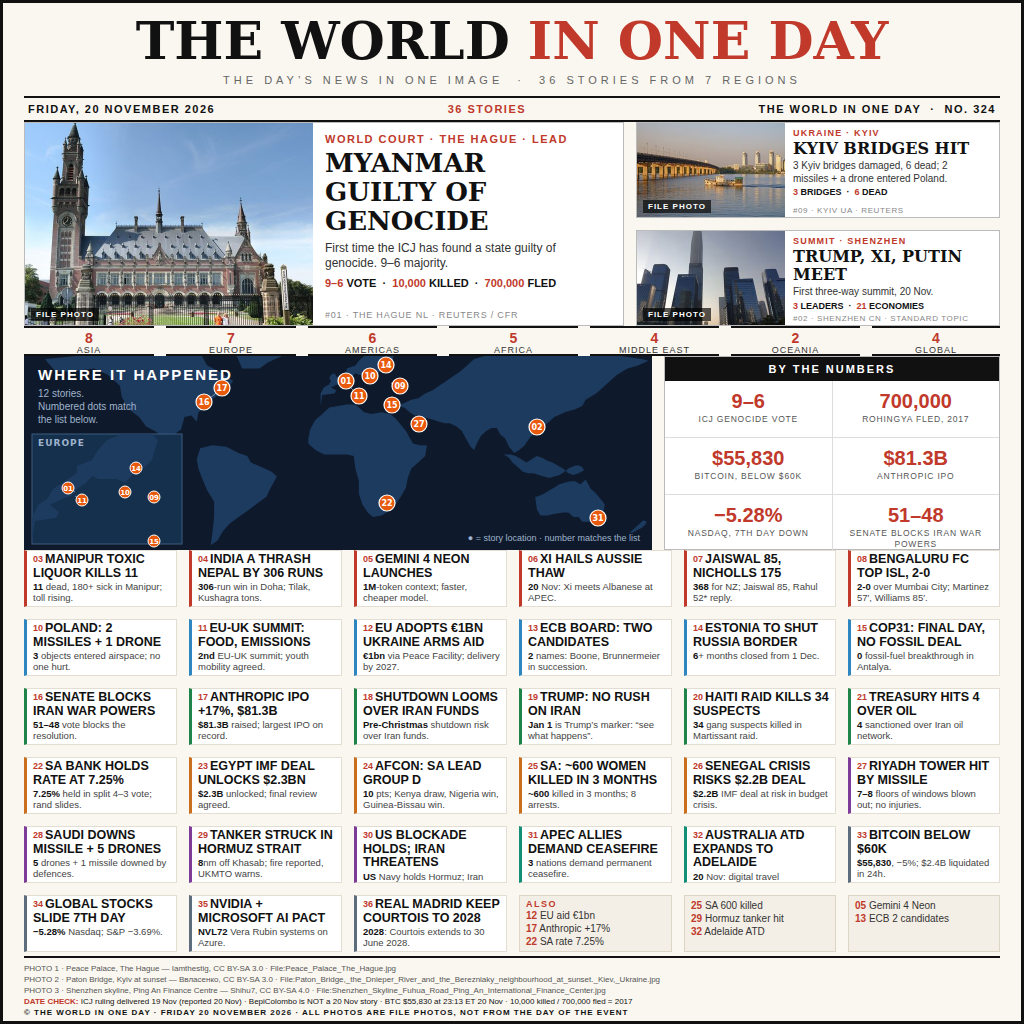
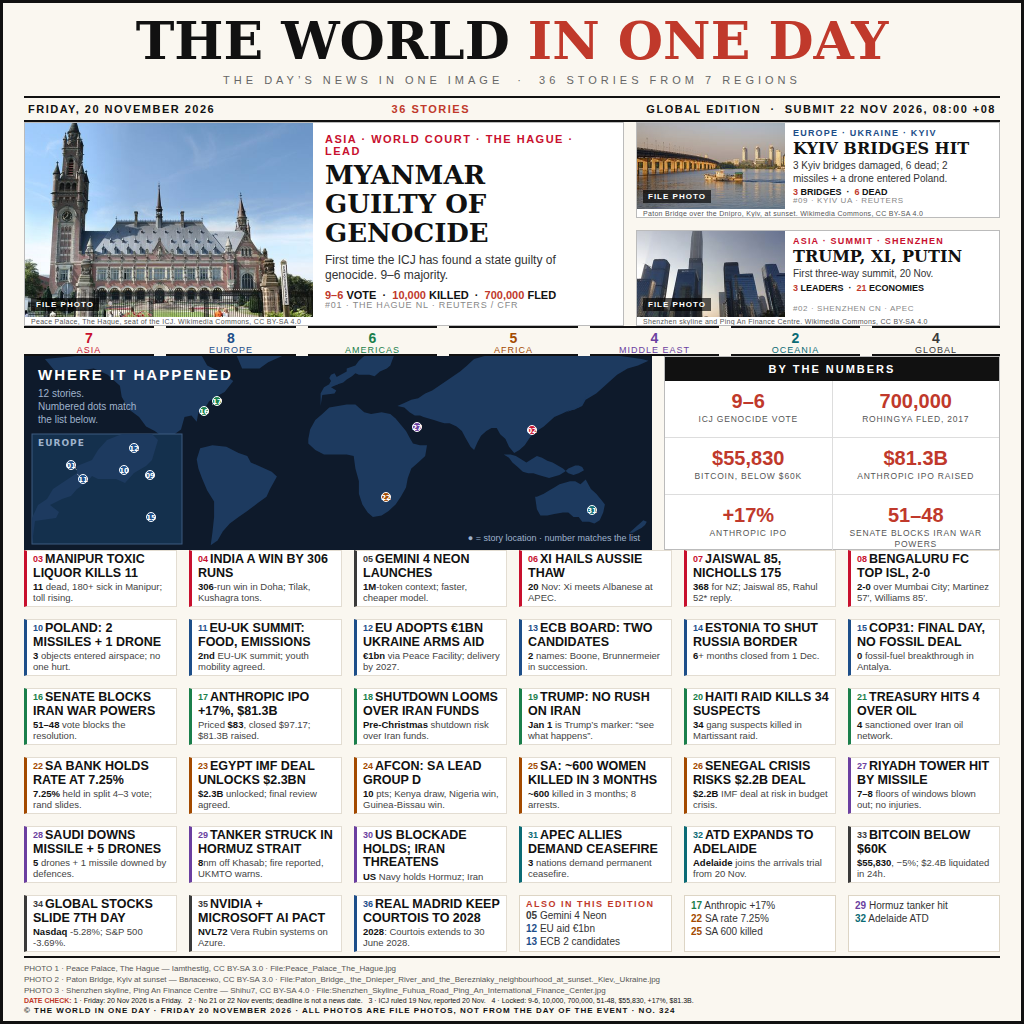
v2 fix: Superbot 15-item synthesis — region colours, hero captions, redrawn pins, numbers bar, ALSO, DATE CHECK
- Region colour system: per-region card borders + numbers, region strip
- Heroes: caption rows (photo 194/86 + 10px caption), region kickers, Hero 3 src APEC
- Map: 12 pins redrawn (6 main + 6 Europe inset), pin 14 dropped for pin 12
- Numbers bar: +17% Anthropic IPO replaces -5.28% Nasdaq; $81.3B label disambiguated
- Cards: 04/17/32/34 text fixes; card 32 title shortened to fit 2 lines
- Hero 3 title shortened to TRUMP, XI, PUTIN (was 2 lines, src overlapped nums)
- ALSO: header + reordered, region-coloured numbers; DATE CHECK 4-item, BepiColombo out
- NO. 324 moved to footer copyright

diff --git a/build/front.html b/build/front.html
@@ -18,10 +18,12 @@
   .datestrip .r { color:#c0392b; }
   /* heroes 122-326 */
   .heroes { position:absolute; left:24px; top:122px; width:976px; height:204px; display:flex; gap:12px; }
-  .hero1 { width:600px; height:204px; border:1px solid #bbb; background:#fff; display:flex; overflow:hidden; }
-  .hero1 .pic { width:288px; height:204px; flex-shrink:0; position:relative; overflow:hidden; }
-  .hero1 .pic img { width:288px; height:204px; object-fit:cover; display:block; }
-  .hero1 .txt { width:300px; height:204px; padding:10px 12px 0 12px; position:relative; }
+  .hero1 { width:600px; height:204px; border:1px solid #bbb; background:#fff; display:flex; flex-direction:column; overflow:hidden; }
+  .hero1 .hrow{display:flex;height:194px}
+  .hero1 .cap{height:10px;font-size:7px;line-height:10px;color:#555;padding:0 6px;white-space:nowrap;overflow:hidden;letter-spacing:0.3px}
+  .hero1 .pic { width:288px; height:194px; flex-shrink:0; position:relative; overflow:hidden; }
+  .hero1 .pic img { width:288px; height:194px; object-fit:cover; display:block; }
+  .hero1 .txt { width:300px; height:194px; padding:10px 12px 0 12px; position:relative; }
   .hero1 .kick { font-size:11px; font-weight:700; letter-spacing:1.5px; color:#c0392b; }
   .hero1 h2 { font-family:"DejaVu Serif",serif; font-size:26px; font-weight:700; line-height:29px; margin-top:4px; }
   .hero1 .deck { font-size:12px; line-height:15px; color:#333; margin-top:5px; }
@@ -30,10 +32,12 @@
   .hero1 .src { position:absolute; left:12px; bottom:7px; font-size:9px; letter-spacing:0.8px; color:#888; }
   .filetag { position:absolute; left:6px; bottom:6px; background:rgba(0,0,0,0.65); color:#fff; font-size:8px; font-weight:700; letter-spacing:1px; padding:2px 5px; z-index:2; }
   .hero23 { width:364px; height:204px; display:flex; flex-direction:column; gap:12px; }
-  .hero-side { width:364px; height:96px; border:1px solid #bbb; background:#fff; display:flex; overflow:hidden; }
-  .hero-side .pic { width:148px; height:96px; flex-shrink:0; position:relative; overflow:hidden; }
-  .hero-side .pic img { width:148px; height:96px; object-fit:cover; display:block; }
-  .hero-side .txt { width:204px; height:96px; padding:5px 8px 0 8px; position:relative; }
+  .hero-side { width:364px; height:96px; border:1px solid #bbb; background:#fff; display:flex; flex-direction:column; overflow:hidden; }
+  .hero-side .hrow{display:flex;height:86px}
+  .hero-side .cap{height:10px;font-size:7px;line-height:10px;color:#555;padding:0 6px;white-space:nowrap;overflow:hidden;letter-spacing:0.3px}
+  .hero-side .pic { width:148px; height:86px; flex-shrink:0; position:relative; overflow:hidden; }
+  .hero-side .pic img { width:148px; height:86px; object-fit:cover; display:block; }
+  .hero-side .txt { width:204px; height:86px; padding:5px 8px 0 8px; position:relative; }
   .hero-side .kick { font-size:9px; font-weight:700; letter-spacing:1.2px; color:#c0392b; }
   .hero-side h2 { font-family:"DejaVu Serif",serif; font-size:16px; font-weight:700; line-height:18px; margin-top:2px; }
   .hero-side .deck { font-size:10px; line-height:12.5px; color:#333; margin-top:2px; }
@@ -45,6 +49,13 @@
   .regions .cell { height:30px; border-top:2px solid #111; border-bottom:2px solid #111; text-align:center; padding-top:3px; }
   .regions .cell .n { font-size:14px; font-weight:700; color:#c0392b; line-height:14px; }
   .regions .cell .r { font-size:9px; letter-spacing:1px; color:#333; line-height:10px; }
+  .regions .cell.ra .n,.regions .cell.ra .r{color:#C8102E}
+  .regions .cell.re .n,.regions .cell.re .r{color:#1D4E89}
+  .regions .cell.rm .n,.regions .cell.rm .r{color:#1B7F4B}
+  .regions .cell.rf .n,.regions .cell.rf .r{color:#A34A00}
+  .regions .cell.rme .n,.regions .cell.rme .r{color:#6B3FA0}
+  .regions .cell.ro .n,.regions .cell.ro .r{color:#0B6B75}
+  .regions .cell.rg .n,.regions .cell.rg .r{color:#3A3A3A}
   /* mapband 356-550 */
   .mapband { position:absolute; left:24px; top:356px; width:976px; height:194px; display:flex; gap:12px; }
   .map { width:628px; height:194px; background:#0e1a2b; position:relative; overflow:hidden; }
@@ -65,16 +76,23 @@
   .grid { position:absolute; left:24px; top:550px; width:976px; height:406px; display:grid; grid-template-columns:153px 153px 153px 153px 152px 152px; grid-template-rows:repeat(6,57px); gap:12px; }
   .card { border-left:3px solid #999; background:#fff; border-top:1px solid #e3ddd2; border-right:1px solid #e3ddd2; border-bottom:1px solid #e3ddd2; padding:2px 6px; overflow:hidden; }
   .card .l1 { font-size:12.5px; font-weight:700; line-height:13.5px; }
-  .card .l1 .num { color:#c0392b; font-size:9px; vertical-align:1px; margin-right:2px; }
+  .card .l1 .num { font-size:9px; vertical-align:1px; margin-right:2px; }
   .card .l2 { font-size:9.5px; line-height:10.5px; color:#444; margin-top:2px; }
   .card .l2 b { color:#111; }
-  .also { background:#f4efe6; border:1px solid #ddd5c5; padding:3px 6px; overflow:hidden; }
+  .card.ra{border-left-color:#C8102E}.card.ra .num{color:#C8102E}
+  .card.re{border-left-color:#1D4E89}.card.re .num{color:#1D4E89}
+  .card.rm{border-left-color:#1B7F4B}.card.rm .num{color:#1B7F4B}
+  .card.rf{border-left-color:#A34A00}.card.rf .num{color:#A34A00}
+  .card.rme{border-left-color:#6B3FA0}.card.rme .num{color:#6B3FA0}
+  .card.ro{border-left-color:#0B6B75}.card.ro .num{color:#0B6B75}
+  .card.rg{border-left-color:#3A3A3A}.card.rg .num{color:#3A3A3A}
+  .also { background:#fff; border:1px solid #ddd5c5; padding:3px 6px; overflow:hidden; }
   .also .ah { font-size:9px; font-weight:700; letter-spacing:1.5px; color:#c0392b; }
   .also .ai { font-size:10px; line-height:12px; color:#333; margin-top:1px; }
-  .also .ai b { color:#c0392b; }
+  .also .ai b { }
   /* footer 956-1024 */
   .foot { position:absolute; left:24px; top:956px; width:976px; height:68px; border-top:2px solid #111; padding-top:5px; font-size:8px; line-height:11px; color:#555; }
-  .foot .dc { color:#111; }
+  .foot .dc { color:#111; font-size:7px; line-height:9px; }
   .foot .dc b { color:#c0392b; }
   .foot .cr { font-weight:700; color:#111; letter-spacing:1px; }
 </style>
@@ -91,52 +109,61 @@
 <div class="datestrip">
   <span>FRIDAY, 20 NOVEMBER 2026</span>
   <span class="r">36 STORIES</span>
-  <span>THE WORLD IN ONE DAY &nbsp;&#183;&nbsp; NO. 324</span>
+  <span>GLOBAL EDITION &nbsp;&#183;&nbsp; SUBMIT 22 NOV 2026, 08:00 +08</span>
 </div>
 
 <div class="heroes">
   <div class="hero1">
-    <div class="pic"><img src="hero1.jpg" alt="Peace Palace, The Hague (file photo)"><span class="filetag">FILE PHOTO</span></div>
-    <div class="txt">
-      <div class="kick">WORLD COURT &#183; THE HAGUE &#183; LEAD</div>
-      <h2>MYANMAR GUILTY OF GENOCIDE</h2>
-      <div class="deck">First time the ICJ has found a state guilty of genocide. 9&#8211;6 majority.</div>
-      <div class="nums"><b>9&#8211;6</b> VOTE &nbsp;&#183;&nbsp; <b>10,000</b> KILLED &nbsp;&#183;&nbsp; <b>700,000</b> FLED</div>
-      <div class="src">#01 &#183; THE HAGUE NL &#183; REUTERS / CFR</div>
+    <div class="hrow">
+      <div class="pic"><img src="hero1.jpg" alt="Peace Palace, The Hague (file photo)"><span class="filetag">FILE PHOTO</span></div>
+      <div class="txt">
+        <div class="kick" style="color:#C8102E">ASIA &#183; WORLD COURT &#183; THE HAGUE &#183; LEAD</div>
+        <h2>MYANMAR GUILTY OF GENOCIDE</h2>
+        <div class="deck">First time the ICJ has found a state guilty of genocide. 9&#8211;6 majority.</div>
+        <div class="nums"><b>9&#8211;6</b> VOTE &nbsp;&#183;&nbsp; <b>10,000</b> KILLED &nbsp;&#183;&nbsp; <b>700,000</b> FLED</div>
+        <div class="src">#01 &#183; THE HAGUE NL &#183; REUTERS / CFR</div>
+      </div>
     </div>
+    <div class="cap">Peace Palace, The Hague, seat of the ICJ. Wikimedia Commons, CC BY-SA 4.0</div>
   </div>
   <div class="hero23">
     <div class="hero-side">
-      <div class="pic"><img src="hero2.jpg" alt="Paton Bridge, Kyiv (file photo)"><span class="filetag">FILE PHOTO</span></div>
-      <div class="txt">
-        <div class="kick">UKRAINE &#183; KYIV</div>
-        <h2>KYIV BRIDGES HIT</h2>
-        <div class="deck">3 Kyiv bridges damaged, 6 dead; 2 missiles + a drone entered Poland.</div>
-        <div class="nums"><b>3</b> BRIDGES &nbsp;&#183;&nbsp; <b>6</b> DEAD</div>
-        <div class="src">#09 &#183; KYIV UA &#183; REUTERS</div>
+      <div class="hrow">
+        <div class="pic"><img src="hero2.jpg" alt="Paton Bridge, Kyiv (file photo)"><span class="filetag">FILE PHOTO</span></div>
+        <div class="txt">
+          <div class="kick" style="color:#1D4E89">EUROPE &#183; UKRAINE &#183; KYIV</div>
+          <h2>KYIV BRIDGES HIT</h2>
+          <div class="deck">3 Kyiv bridges damaged, 6 dead; 2 missiles + a drone entered Poland.</div>
+          <div class="nums"><b>3</b> BRIDGES &nbsp;&#183;&nbsp; <b>6</b> DEAD</div>
+          <div class="src">#09 &#183; KYIV UA &#183; REUTERS</div>
+        </div>
       </div>
+      <div class="cap">Paton Bridge over the Dnipro, Kyiv, at sunset. Wikimedia Commons, CC BY-SA 4.0</div>
     </div>
     <div class="hero-side">
-      <div class="pic"><img src="hero3.jpg" alt="Shenzhen skyline (file photo)"><span class="filetag">FILE PHOTO</span></div>
-      <div class="txt">
-        <div class="kick">SUMMIT &#183; SHENZHEN</div>
-        <h2>TRUMP, XI, PUTIN MEET</h2>
-        <div class="deck">First three-way summit, 20 Nov.</div>
-        <div class="nums"><b>3</b> LEADERS &nbsp;&#183;&nbsp; <b>21</b> ECONOMIES</div>
-        <div class="src">#02 &#183; SHENZHEN CN &#183; STANDARD TOPIC</div>
+      <div class="hrow">
+        <div class="pic"><img src="hero3.jpg" alt="Shenzhen skyline (file photo)"><span class="filetag">FILE PHOTO</span></div>
+        <div class="txt">
+          <div class="kick" style="color:#C8102E">ASIA &#183; SUMMIT &#183; SHENZHEN</div>
+          <h2>TRUMP, XI, PUTIN</h2>
+          <div class="deck">First three-way summit, 20 Nov.</div>
+          <div class="nums"><b>3</b> LEADERS &nbsp;&#183;&nbsp; <b>21</b> ECONOMIES</div>
+          <div class="src">#02 &#183; SHENZHEN CN &#183; APEC</div>
+        </div>
       </div>
+      <div class="cap">Shenzhen skyline and Ping An Finance Centre. Wikimedia Commons, CC BY-SA 4.0</div>
     </div>
   </div>
 </div>
 
 <div class="regions">
-  <div class="cell" style="width:130px"><div class="n">8</div><div class="r">ASIA</div></div>
-  <div class="cell" style="width:130px"><div class="n">7</div><div class="r">EUROPE</div></div>
-  <div class="cell" style="width:129px"><div class="n">6</div><div class="r">AMERICAS</div></div>
-  <div class="cell" style="width:129px"><div class="n">5</div><div class="r">AFRICA</div></div>
-  <div class="cell" style="width:129px"><div class="n">4</div><div class="r">MIDDLE EAST</div></div>
-  <div class="cell" style="width:129px"><div class="n">2</div><div class="r">OCEANIA</div></div>
-  <div class="cell" style="width:128px"><div class="n">4</div><div class="r">GLOBAL</div></div>
+  <div class="cell ra" style="width:130px"><div class="n">7</div><div class="r">ASIA</div></div>
+  <div class="cell re" style="width:130px"><div class="n">8</div><div class="r">EUROPE</div></div>
+  <div class="cell rm" style="width:129px"><div class="n">6</div><div class="r">AMERICAS</div></div>
+  <div class="cell rf" style="width:129px"><div class="n">5</div><div class="r">AFRICA</div></div>
+  <div class="cell rme" style="width:129px"><div class="n">4</div><div class="r">MIDDLE EAST</div></div>
+  <div class="cell ro" style="width:129px"><div class="n">2</div><div class="r">OCEANIA</div></div>
+  <div class="cell rg" style="width:128px"><div class="n">4</div><div class="r">GLOBAL</div></div>
 </div>
 
 <div class="mapband">
@@ -162,29 +189,23 @@
         <rect x="8" y="78" width="150" height="110" fill="#14304d" stroke="#3d5a80" stroke-width="1"/>
         <path d="M8,188 L11,165 L32,162 L35,156 L26,149 L38,143 L47,140 L53,133 L62,127 L68,120 L74,123 L92,123 L101,127 L110,117 L122,110 L128,104 L134,84 L128,78 L113,78 L98,78 L83,84 L74,94 L68,104 L53,110 L53,117 L38,127 L29,133 L23,143 L14,149 L8,162 L8,182 Z" fill="#1d3a5f" stroke="none"/>
         <text x="14" y="90" font-family="DejaVu Sans, sans-serif" font-size="9" font-weight="700" fill="#9fb3cc" letter-spacing="1">EUROPE</text>
-        <g stroke="#ffffff" stroke-opacity="0.5" stroke-width="0.8"><line x1="44" y1="132" x2="51" y2="136"/><line x1="58" y1="144" x2="51" y2="140"/></g>
-        <g><circle cx="44" cy="132" r="6" fill="#e8590c" stroke="#ffffff" stroke-width="1"/><text x="44" y="134.5" text-anchor="middle" font-size="7" font-weight="700" fill="#ffffff" font-family="DejaVu Sans, sans-serif">01</text></g>
-        <g><circle cx="58" cy="144" r="6" fill="#e8590c" stroke="#ffffff" stroke-width="1"/><text x="58" y="146.5" text-anchor="middle" font-size="7" font-weight="700" fill="#ffffff" font-family="DejaVu Sans, sans-serif">11</text></g>
-        <g><circle cx="101" cy="136" r="6" fill="#e8590c" stroke="#ffffff" stroke-width="1"/><text x="101" y="138.5" text-anchor="middle" font-size="7" font-weight="700" fill="#ffffff" font-family="DejaVu Sans, sans-serif">10</text></g>
-        <g><circle cx="130" cy="141" r="6" fill="#e8590c" stroke="#ffffff" stroke-width="1"/><text x="130" y="143.5" text-anchor="middle" font-size="7" font-weight="700" fill="#ffffff" font-family="DejaVu Sans, sans-serif">09</text></g>
-        <g><circle cx="112" cy="112" r="6" fill="#e8590c" stroke="#ffffff" stroke-width="1"/><text x="112" y="114.5" text-anchor="middle" font-size="7" font-weight="700" fill="#ffffff" font-family="DejaVu Sans, sans-serif">14</text></g>
-        <g><circle cx="130" cy="185" r="6" fill="#e8590c" stroke="#ffffff" stroke-width="1"/><text x="130" y="187.5" text-anchor="middle" font-size="7" font-weight="700" fill="#ffffff" font-family="DejaVu Sans, sans-serif">15</text></g>
+        <g stroke="#ffffff" stroke-opacity="0.5" stroke-width="0.8"><line x1="47" y1="109" x2="53" y2="114"/><line x1="59" y1="123" x2="53" y2="118"/></g>
+        <g><circle cx="47" cy="109" r="4.5" fill="#1D4E89" stroke="#ffffff" stroke-width="1"/><text x="47" y="111.5" text-anchor="middle" font-size="7" font-weight="700" fill="#ffffff" font-family="DejaVu Sans, sans-serif">01</text></g>
+        <g><circle cx="59" cy="123" r="4.5" fill="#1D4E89" stroke="#ffffff" stroke-width="1"/><text x="59" y="125.5" text-anchor="middle" font-size="7" font-weight="700" fill="#ffffff" font-family="DejaVu Sans, sans-serif">11</text></g>
+        <g><circle cx="100" cy="114" r="4.5" fill="#1D4E89" stroke="#ffffff" stroke-width="1"/><text x="100" y="116.5" text-anchor="middle" font-size="7" font-weight="700" fill="#ffffff" font-family="DejaVu Sans, sans-serif">10</text></g>
+        <g><circle cx="110" cy="92" r="4.5" fill="#1D4E89" stroke="#ffffff" stroke-width="1"/><text x="110" y="94.5" text-anchor="middle" font-size="7" font-weight="700" fill="#ffffff" font-family="DejaVu Sans, sans-serif">12</text></g>
+        <g><circle cx="126" cy="119" r="4.5" fill="#1D4E89" stroke="#ffffff" stroke-width="1"/><text x="126" y="121.5" text-anchor="middle" font-size="7" font-weight="700" fill="#ffffff" font-family="DejaVu Sans, sans-serif">09</text></g>
+        <g><circle cx="127" cy="161" r="4.5" fill="#1D4E89" stroke="#ffffff" stroke-width="1"/><text x="127" y="163.5" text-anchor="middle" font-size="7" font-weight="700" fill="#ffffff" font-family="DejaVu Sans, sans-serif">15</text></g>
       </g>
       <!-- leader lines for nudged main-map pins -->
-      <g stroke="#ffffff" stroke-opacity="0.55" stroke-width="0.8"><line x1="335" y1="40" x2="322" y2="27"/><line x1="362" y1="9" x2="357" y2="14"/><line x1="198" y1="32" x2="185" y2="43"/><line x1="376" y1="30" x2="367" y2="27"/></g>
+      <g stroke="#ffffff" stroke-opacity="0.55" stroke-width="0.8"><line x1="180" y1="55" x2="183" y2="51"/><line x1="193" y1="45" x2="188" y2="49"/></g>
       <!-- main-map pins -->
-      <g><circle cx="322" cy="25" r="8" fill="#e8590c" stroke="#ffffff" stroke-width="1.2"/><text x="322" y="28" text-anchor="middle" font-size="8" font-weight="700" fill="#ffffff" font-family="DejaVu Sans, sans-serif">01</text></g>
-      <g><circle cx="513" cy="71" r="8" fill="#e8590c" stroke="#ffffff" stroke-width="1.2"/><text x="513" y="74" text-anchor="middle" font-size="8" font-weight="700" fill="#ffffff" font-family="DejaVu Sans, sans-serif">02</text></g>
-      <g><circle cx="376" cy="30" r="8" fill="#e8590c" stroke="#ffffff" stroke-width="1.2"/><text x="376" y="33" text-anchor="middle" font-size="8" font-weight="700" fill="#ffffff" font-family="DejaVu Sans, sans-serif">09</text></g>
-      <g><circle cx="346" cy="20" r="8" fill="#e8590c" stroke="#ffffff" stroke-width="1.2"/><text x="346" y="23" text-anchor="middle" font-size="8" font-weight="700" fill="#ffffff" font-family="DejaVu Sans, sans-serif">10</text></g>
-      <g><circle cx="335" cy="40" r="8" fill="#e8590c" stroke="#ffffff" stroke-width="1.2"/><text x="335" y="43" text-anchor="middle" font-size="8" font-weight="700" fill="#ffffff" font-family="DejaVu Sans, sans-serif">11</text></g>
-      <g><circle cx="362" cy="9" r="8" fill="#e8590c" stroke="#ffffff" stroke-width="1.2"/><text x="362" y="12" text-anchor="middle" font-size="8" font-weight="700" fill="#ffffff" font-family="DejaVu Sans, sans-serif">14</text></g>
-      <g><circle cx="368" cy="49" r="8" fill="#e8590c" stroke="#ffffff" stroke-width="1.2"/><text x="368" y="52" text-anchor="middle" font-size="8" font-weight="700" fill="#ffffff" font-family="DejaVu Sans, sans-serif">15</text></g>
-      <g><circle cx="180" cy="46" r="8" fill="#e8590c" stroke="#ffffff" stroke-width="1.2"/><text x="180" y="49" text-anchor="middle" font-size="8" font-weight="700" fill="#ffffff" font-family="DejaVu Sans, sans-serif">16</text></g>
-      <g><circle cx="198" cy="32" r="8" fill="#e8590c" stroke="#ffffff" stroke-width="1.2"/><text x="198" y="35" text-anchor="middle" font-size="8" font-weight="700" fill="#ffffff" font-family="DejaVu Sans, sans-serif">17</text></g>
-      <g><circle cx="363" cy="147" r="8" fill="#e8590c" stroke="#ffffff" stroke-width="1.2"/><text x="363" y="150" text-anchor="middle" font-size="8" font-weight="700" fill="#ffffff" font-family="DejaVu Sans, sans-serif">22</text></g>
-      <g><circle cx="395" cy="68" r="8" fill="#e8590c" stroke="#ffffff" stroke-width="1.2"/><text x="395" y="71" text-anchor="middle" font-size="8" font-weight="700" fill="#ffffff" font-family="DejaVu Sans, sans-serif">27</text></g>
-      <g><circle cx="574" cy="162" r="8" fill="#e8590c" stroke="#ffffff" stroke-width="1.2"/><text x="574" y="165" text-anchor="middle" font-size="8" font-weight="700" fill="#ffffff" font-family="DejaVu Sans, sans-serif">31</text></g>
+      <g><circle cx="508" cy="74" r="4.5" fill="#C8102E" stroke="#ffffff" stroke-width="1"/><text x="508" y="76.5" text-anchor="middle" font-size="7" font-weight="700" fill="#ffffff" font-family="DejaVu Sans, sans-serif">02</text></g>
+      <g><circle cx="180" cy="55" r="4.5" fill="#1B7F4B" stroke="#ffffff" stroke-width="1"/><text x="180" y="57.5" text-anchor="middle" font-size="7" font-weight="700" fill="#ffffff" font-family="DejaVu Sans, sans-serif">16</text></g>
+      <g><circle cx="193" cy="45" r="4.5" fill="#1B7F4B" stroke="#ffffff" stroke-width="1"/><text x="193" y="47.5" text-anchor="middle" font-size="7" font-weight="700" fill="#ffffff" font-family="DejaVu Sans, sans-serif">17</text></g>
+      <g><circle cx="362" cy="141" r="4.5" fill="#A34A00" stroke="#ffffff" stroke-width="1"/><text x="362" y="143.5" text-anchor="middle" font-size="7" font-weight="700" fill="#ffffff" font-family="DejaVu Sans, sans-serif">22</text></g>
+      <g><circle cx="393" cy="71" r="4.5" fill="#6B3FA0" stroke="#ffffff" stroke-width="1"/><text x="393" y="73.5" text-anchor="middle" font-size="7" font-weight="700" fill="#ffffff" font-family="DejaVu Sans, sans-serif">27</text></g>
+      <g><circle cx="568" cy="154" r="4.5" fill="#0B6B75" stroke="#ffffff" stroke-width="1"/><text x="568" y="156.5" text-anchor="middle" font-size="7" font-weight="700" fill="#ffffff" font-family="DejaVu Sans, sans-serif">31</text></g>
     </svg>
     <div class="maplegend">&#9679; = story location &#183; number matches the list</div>
   </div>
@@ -196,63 +217,63 @@
     </div>
     <div class="nrow">
       <div class="ncell"><div class="v">$55,830</div><div class="l">BITCOIN, BELOW $60K</div></div>
-      <div class="ncell"><div class="v">$81.3B</div><div class="l">ANTHROPIC IPO</div></div>
+      <div class="ncell"><div class="v">$81.3B</div><div class="l">ANTHROPIC IPO RAISED</div></div>
     </div>
     <div class="nrow r3">
-      <div class="ncell"><div class="v">&#8722;5.28%</div><div class="l">NASDAQ, 7TH DAY DOWN</div></div>
+      <div class="ncell"><div class="v">+17%</div><div class="l">ANTHROPIC IPO</div></div>
       <div class="ncell"><div class="v">51&#8211;48</div><div class="l">SENATE BLOCKS IRAN WAR POWERS</div></div>
     </div>
   </div>
 </div>
 
 <div class="grid">
-  <div class="card" style="border-left-color:#c0392b"><div class="l1"><span class="num">03</span>MANIPUR TOXIC LIQUOR KILLS 11</div><div class="l2"><b>11</b> dead, 180+ sick in Manipur; toll rising.</div></div>
-  <div class="card" style="border-left-color:#c0392b"><div class="l1"><span class="num">04</span>INDIA A THRASH NEPAL BY 306 RUNS</div><div class="l2"><b>306</b>-run win in Doha; Tilak, Kushagra tons.</div></div>
-  <div class="card" style="border-left-color:#c0392b"><div class="l1"><span class="num">05</span>GEMINI 4 NEON LAUNCHES</div><div class="l2"><b>1M</b>-token context; faster, cheaper model.</div></div>
-  <div class="card" style="border-left-color:#c0392b"><div class="l1"><span class="num">06</span>XI HAILS AUSSIE THAW</div><div class="l2"><b>20</b> Nov: Xi meets Albanese at APEC.</div></div>
-  <div class="card" style="border-left-color:#c0392b"><div class="l1"><span class="num">07</span>JAISWAL 85, NICHOLLS 175</div><div class="l2"><b>368</b> for NZ; Jaiswal 85, Rahul 52* reply.</div></div>
-  <div class="card" style="border-left-color:#c0392b"><div class="l1"><span class="num">08</span>BENGALURU FC TOP ISL, 2-0</div><div class="l2"><b>2-0</b> over Mumbai City; Martinez 57&#8242;, Williams 85&#8242;.</div></div>
-  <div class="card" style="border-left-color:#2e86c1"><div class="l1"><span class="num">10</span>POLAND: 2 MISSILES + 1 DRONE</div><div class="l2"><b>3</b> objects entered airspace; no one hurt.</div></div>
-  <div class="card" style="border-left-color:#2e86c1"><div class="l1"><span class="num">11</span>EU-UK SUMMIT: FOOD, EMISSIONS</div><div class="l2"><b>2nd</b> EU-UK summit; youth mobility agreed.</div></div>
-  <div class="card" style="border-left-color:#2e86c1"><div class="l1"><span class="num">12</span>EU ADOPTS &#8364;1BN UKRAINE ARMS AID</div><div class="l2"><b>&#8364;1bn</b> via Peace Facility; delivery by 2027.</div></div>
-  <div class="card" style="border-left-color:#2e86c1"><div class="l1"><span class="num">13</span>ECB BOARD: TWO CANDIDATES</div><div class="l2"><b>2</b> names: Boone, Brunnermeier in succession.</div></div>
-  <div class="card" style="border-left-color:#2e86c1"><div class="l1"><span class="num">14</span>ESTONIA TO SHUT RUSSIA BORDER</div><div class="l2"><b>6</b>+ months closed from 1 Dec.</div></div>
-  <div class="card" style="border-left-color:#2e86c1"><div class="l1"><span class="num">15</span>COP31: FINAL DAY, NO FOSSIL DEAL</div><div class="l2"><b>0</b> fossil-fuel breakthrough in Antalya.</div></div>
-  <div class="card" style="border-left-color:#1e8449"><div class="l1"><span class="num">16</span>SENATE BLOCKS IRAN WAR POWERS</div><div class="l2"><b>51&#8211;48</b> vote blocks the resolution.</div></div>
-  <div class="card" style="border-left-color:#1e8449"><div class="l1"><span class="num">17</span>ANTHROPIC IPO +17%, $81.3B</div><div class="l2"><b>$81.3B</b> raised; largest IPO on record.</div></div>
-  <div class="card" style="border-left-color:#1e8449"><div class="l1"><span class="num">18</span>SHUTDOWN LOOMS OVER IRAN FUNDS</div><div class="l2"><b>Pre-Christmas</b> shutdown risk over Iran funds.</div></div>
-  <div class="card" style="border-left-color:#1e8449"><div class="l1"><span class="num">19</span>TRUMP: NO RUSH ON IRAN</div><div class="l2"><b>Jan 1</b> is Trump&#8217;s marker: &#8220;see what happens&#8221;.</div></div>
-  <div class="card" style="border-left-color:#1e8449"><div class="l1"><span class="num">20</span>HAITI RAID KILLS 34 SUSPECTS</div><div class="l2"><b>34</b> gang suspects killed in Martissant raid.</div></div>
-  <div class="card" style="border-left-color:#1e8449"><div class="l1"><span class="num">21</span>TREASURY HITS 4 OVER OIL</div><div class="l2"><b>4</b> sanctioned over Iran oil network.</div></div>
-  <div class="card" style="border-left-color:#ca6f1e"><div class="l1"><span class="num">22</span>SA BANK HOLDS RATE AT 7.25%</div><div class="l2"><b>7.25%</b> held in split 4&#8211;3 vote; rand slides.</div></div>
-  <div class="card" style="border-left-color:#ca6f1e"><div class="l1"><span class="num">23</span>EGYPT IMF DEAL UNLOCKS $2.3BN</div><div class="l2"><b>$2.3B</b> unlocked; final review agreed.</div></div>
-  <div class="card" style="border-left-color:#ca6f1e"><div class="l1"><span class="num">24</span>AFCON: SA LEAD GROUP D</div><div class="l2"><b>10</b> pts; Kenya draw, Nigeria win, Guinea-Bissau win.</div></div>
-  <div class="card" style="border-left-color:#ca6f1e"><div class="l1"><span class="num">25</span>SA: ~600 WOMEN KILLED IN 3 MONTHS</div><div class="l2"><b>~600</b> killed in 3 months; 8 arrests.</div></div>
-  <div class="card" style="border-left-color:#ca6f1e"><div class="l1"><span class="num">26</span>SENEGAL CRISIS RISKS $2.2B DEAL</div><div class="l2"><b>$2.2B</b> IMF deal at risk in budget crisis.</div></div>
-  <div class="card" style="border-left-color:#7d3c98"><div class="l1"><span class="num">27</span>RIYADH TOWER HIT BY MISSILE</div><div class="l2"><b>7&#8211;8</b> floors of windows blown out; no injuries.</div></div>
-  <div class="card" style="border-left-color:#7d3c98"><div class="l1"><span class="num">28</span>SAUDI DOWNS MISSILE + 5 DRONES</div><div class="l2"><b>5</b> drones + 1 missile downed by defences.</div></div>
-  <div class="card" style="border-left-color:#7d3c98"><div class="l1"><span class="num">29</span>TANKER STRUCK IN HORMUZ STRAIT</div><div class="l2"><b>8</b>nm off Khasab; fire reported, UKMTO warns.</div></div>
-  <div class="card" style="border-left-color:#7d3c98"><div class="l1"><span class="num">30</span>US BLOCKADE HOLDS; IRAN THREATENS</div><div class="l2"><b>US</b> Navy holds Hormuz; Iran warns.</div></div>
-  <div class="card" style="border-left-color:#148f77"><div class="l1"><span class="num">31</span>APEC ALLIES DEMAND CEASEFIRE</div><div class="l2"><b>3</b> nations demand permanent ceasefire.</div></div>
-  <div class="card" style="border-left-color:#148f77"><div class="l1"><span class="num">32</span>AUSTRALIA ATD EXPANDS TO ADELAIDE</div><div class="l2"><b>20</b> Nov: digital travel declaration.</div></div>
-  <div class="card" style="border-left-color:#5d6d7e"><div class="l1"><span class="num">33</span>BITCOIN BELOW $60K</div><div class="l2"><b>$55,830</b>, &#8722;5%; $2.4B liquidated in 24h.</div></div>
-  <div class="card" style="border-left-color:#5d6d7e"><div class="l1"><span class="num">34</span>GLOBAL STOCKS SLIDE 7TH DAY</div><div class="l2"><b>&#8722;5.28%</b> Nasdaq; S&amp;P &#8722;3.69%.</div></div>
-  <div class="card" style="border-left-color:#5d6d7e"><div class="l1"><span class="num">35</span>NVIDIA + MICROSOFT AI PACT</div><div class="l2"><b>NVL72</b> Vera Rubin systems on Azure.</div></div>
-  <div class="card" style="border-left-color:#5d6d7e"><div class="l1"><span class="num">36</span>REAL MADRID KEEP COURTOIS TO 2028</div><div class="l2"><b>2028</b>: Courtois extends to 30 June 2028.</div></div>
+  <div class="card ra"><div class="l1"><span class="num">03</span>MANIPUR TOXIC LIQUOR KILLS 11</div><div class="l2"><b>11</b> dead, 180+ sick in Manipur; toll rising.</div></div>
+  <div class="card ra"><div class="l1"><span class="num">04</span>INDIA A WIN BY 306 RUNS</div><div class="l2"><b>306</b>-run win in Doha; Tilak, Kushagra tons.</div></div>
+  <div class="card rg"><div class="l1"><span class="num">05</span>GEMINI 4 NEON LAUNCHES</div><div class="l2"><b>1M</b>-token context; faster, cheaper model.</div></div>
+  <div class="card ra"><div class="l1"><span class="num">06</span>XI HAILS AUSSIE THAW</div><div class="l2"><b>20</b> Nov: Xi meets Albanese at APEC.</div></div>
+  <div class="card ra"><div class="l1"><span class="num">07</span>JAISWAL 85, NICHOLLS 175</div><div class="l2"><b>368</b> for NZ; Jaiswal 85, Rahul 52* reply.</div></div>
+  <div class="card ra"><div class="l1"><span class="num">08</span>BENGALURU FC TOP ISL, 2-0</div><div class="l2"><b>2-0</b> over Mumbai City; Martinez 57&#8242;, Williams 85&#8242;.</div></div>
+  <div class="card re"><div class="l1"><span class="num">10</span>POLAND: 2 MISSILES + 1 DRONE</div><div class="l2"><b>3</b> objects entered airspace; no one hurt.</div></div>
+  <div class="card re"><div class="l1"><span class="num">11</span>EU-UK SUMMIT: FOOD, EMISSIONS</div><div class="l2"><b>2nd</b> EU-UK summit; youth mobility agreed.</div></div>
+  <div class="card re"><div class="l1"><span class="num">12</span>EU ADOPTS &#8364;1BN UKRAINE ARMS AID</div><div class="l2"><b>&#8364;1bn</b> via Peace Facility; delivery by 2027.</div></div>
+  <div class="card re"><div class="l1"><span class="num">13</span>ECB BOARD: TWO CANDIDATES</div><div class="l2"><b>2</b> names: Boone, Brunnermeier in succession.</div></div>
+  <div class="card re"><div class="l1"><span class="num">14</span>ESTONIA TO SHUT RUSSIA BORDER</div><div class="l2"><b>6</b>+ months closed from 1 Dec.</div></div>
+  <div class="card re"><div class="l1"><span class="num">15</span>COP31: FINAL DAY, NO FOSSIL DEAL</div><div class="l2"><b>0</b> fossil-fuel breakthrough in Antalya.</div></div>
+  <div class="card rm"><div class="l1"><span class="num">16</span>SENATE BLOCKS IRAN WAR POWERS</div><div class="l2"><b>51&#8211;48</b> vote blocks the resolution.</div></div>
+  <div class="card rm"><div class="l1"><span class="num">17</span>ANTHROPIC IPO +17%, $81.3B</div><div class="l2">Priced <b>$83</b>, closed $97.17; $81.3B raised.</div></div>
+  <div class="card rm"><div class="l1"><span class="num">18</span>SHUTDOWN LOOMS OVER IRAN FUNDS</div><div class="l2"><b>Pre-Christmas</b> shutdown risk over Iran funds.</div></div>
+  <div class="card rm"><div class="l1"><span class="num">19</span>TRUMP: NO RUSH ON IRAN</div><div class="l2"><b>Jan 1</b> is Trump&#8217;s marker: &#8220;see what happens&#8221;.</div></div>
+  <div class="card rm"><div class="l1"><span class="num">20</span>HAITI RAID KILLS 34 SUSPECTS</div><div class="l2"><b>34</b> gang suspects killed in Martissant raid.</div></div>
+  <div class="card rm"><div class="l1"><span class="num">21</span>TREASURY HITS 4 OVER OIL</div><div class="l2"><b>4</b> sanctioned over Iran oil network.</div></div>
+  <div class="card rf"><div class="l1"><span class="num">22</span>SA BANK HOLDS RATE AT 7.25%</div><div class="l2"><b>7.25%</b> held in split 4&#8211;3 vote; rand slides.</div></div>
+  <div class="card rf"><div class="l1"><span class="num">23</span>EGYPT IMF DEAL UNLOCKS $2.3BN</div><div class="l2"><b>$2.3B</b> unlocked; final review agreed.</div></div>
+  <div class="card rf"><div class="l1"><span class="num">24</span>AFCON: SA LEAD GROUP D</div><div class="l2"><b>10</b> pts; Kenya draw, Nigeria win, Guinea-Bissau win.</div></div>
+  <div class="card rf"><div class="l1"><span class="num">25</span>SA: ~600 WOMEN KILLED IN 3 MONTHS</div><div class="l2"><b>~600</b> killed in 3 months; 8 arrests.</div></div>
+  <div class="card rf"><div class="l1"><span class="num">26</span>SENEGAL CRISIS RISKS $2.2B DEAL</div><div class="l2"><b>$2.2B</b> IMF deal at risk in budget crisis.</div></div>
+  <div class="card rme"><div class="l1"><span class="num">27</span>RIYADH TOWER HIT BY MISSILE</div><div class="l2"><b>7&#8211;8</b> floors of windows blown out; no injuries.</div></div>
+  <div class="card rme"><div class="l1"><span class="num">28</span>SAUDI DOWNS MISSILE + 5 DRONES</div><div class="l2"><b>5</b> drones + 1 missile downed by defences.</div></div>
+  <div class="card rme"><div class="l1"><span class="num">29</span>TANKER STRUCK IN HORMUZ STRAIT</div><div class="l2"><b>8</b>nm off Khasab; fire reported, UKMTO warns.</div></div>
+  <div class="card rme"><div class="l1"><span class="num">30</span>US BLOCKADE HOLDS; IRAN THREATENS</div><div class="l2"><b>US</b> Navy holds Hormuz; Iran warns.</div></div>
+  <div class="card ro"><div class="l1"><span class="num">31</span>APEC ALLIES DEMAND CEASEFIRE</div><div class="l2"><b>3</b> nations demand permanent ceasefire.</div></div>
+  <div class="card ro"><div class="l1"><span class="num">32</span>ATD EXPANDS TO ADELAIDE</div><div class="l2"><b>Adelaide</b> joins the arrivals trial from 20 Nov.</div></div>
+  <div class="card rg"><div class="l1"><span class="num">33</span>BITCOIN BELOW $60K</div><div class="l2"><b>$55,830</b>, &#8722;5%; $2.4B liquidated in 24h.</div></div>
+  <div class="card rg"><div class="l1"><span class="num">34</span>GLOBAL STOCKS SLIDE 7TH DAY</div><div class="l2"><b>Nasdaq</b> -5.28%; S&amp;P 500 -3.69%.</div></div>
+  <div class="card rg"><div class="l1"><span class="num">35</span>NVIDIA + MICROSOFT AI PACT</div><div class="l2"><b>NVL72</b> Vera Rubin systems on Azure.</div></div>
+  <div class="card re"><div class="l1"><span class="num">36</span>REAL MADRID KEEP COURTOIS TO 2028</div><div class="l2"><b>2028</b>: Courtois extends to 30 June 2028.</div></div>
   <div class="also">
-    <div class="ah">ALSO</div>
-    <div class="ai"><b>12</b> EU aid &#8364;1bn</div>
-    <div class="ai"><b>17</b> Anthropic +17%</div>
-    <div class="ai"><b>22</b> SA rate 7.25%</div>
+    <div class="ah">ALSO IN THIS EDITION</div>
+    <div class="ai"><b style="color:#3A3A3A">05</b> Gemini 4 Neon</div>
+    <div class="ai"><b style="color:#1D4E89">12</b> EU aid &#8364;1bn</div>
+    <div class="ai"><b style="color:#1D4E89">13</b> ECB 2 candidates</div>
   </div>
   <div class="also">
-    <div class="ai"><b>25</b> SA 600 killed</div>
-    <div class="ai"><b>29</b> Hormuz tanker hit</div>
-    <div class="ai"><b>32</b> Adelaide ATD</div>
+    <div class="ai"><b style="color:#1B7F4B">17</b> Anthropic +17%</div>
+    <div class="ai"><b style="color:#A34A00">22</b> SA rate 7.25%</div>
+    <div class="ai"><b style="color:#A34A00">25</b> SA 600 killed</div>
   </div>
   <div class="also">
-    <div class="ai"><b>05</b> Gemini 4 Neon</div>
-    <div class="ai"><b>13</b> ECB 2 candidates</div>
+    <div class="ai"><b style="color:#6B3FA0">29</b> Hormuz tanker hit</div>
+    <div class="ai"><b style="color:#0B6B75">32</b> Adelaide ATD</div>
   </div>
 </div>
 
@@ -260,8 +281,8 @@
   <div>PHOTO 1 &#183; Peace Palace, The Hague &#8212; Iamthestig, CC BY-SA 3.0 &#183; File:Peace_Palace_The_Hague.jpg</div>
   <div>PHOTO 2 &#183; Paton Bridge, Kyiv at sunset &#8212; &#1042;&#1074;&#1083;&#1072;&#1089;&#1077;&#1085;&#1082;&#1086;, CC BY-SA 3.0 &#183; File:Paton_Bridge,_the_Dnieper_River_and_the_Berezniaky_neighbourhood_at_sunset._Kiev,_Ukraine.jpg</div>
   <div>PHOTO 3 &#183; Shenzhen skyline, Ping An Finance Centre &#8212; Shihu7, CC BY-SA 4.0 &#183; File:Shenzhen_Skyline_Fuhua_Road_Ping_An_International_Finance_Center.jpg</div>
-  <div class="dc"><b>DATE CHECK:</b> ICJ ruling delivered 19 Nov (reported 20 Nov) &#183; BepiColombo is NOT a 20 Nov story &#183; BTC $55,830 at 23:13 ET 20 Nov &#183; 10,000 killed / 700,000 fled = 2017</div>
-  <div class="cr">&#169; THE WORLD IN ONE DAY &#183; FRIDAY 20 NOVEMBER 2026 &#183; ALL PHOTOS ARE FILE PHOTOS, NOT FROM THE DAY OF THE EVENT</div>
+  <div class="dc"><b>DATE CHECK:</b> 1 &#183; Friday: 20 Nov 2026 is a Friday. &nbsp; 2 &#183; No 21 or 22 Nov events; deadline is not a news date. &nbsp; 3 &#183; ICJ ruled 19 Nov, reported 20 Nov. &nbsp; 4 &#183; Locked: 9-6, 10,000, 700,000, 51-48, $55,830, +17%, $81.3B.</div>
+  <div class="cr">&#169; THE WORLD IN ONE DAY &#183; FRIDAY 20 NOVEMBER 2026 &#183; ALL PHOTOS ARE FILE PHOTOS, NOT FROM THE DAY OF THE EVENT &#183; NO. 324</div>
 </div>
 
 </div>
